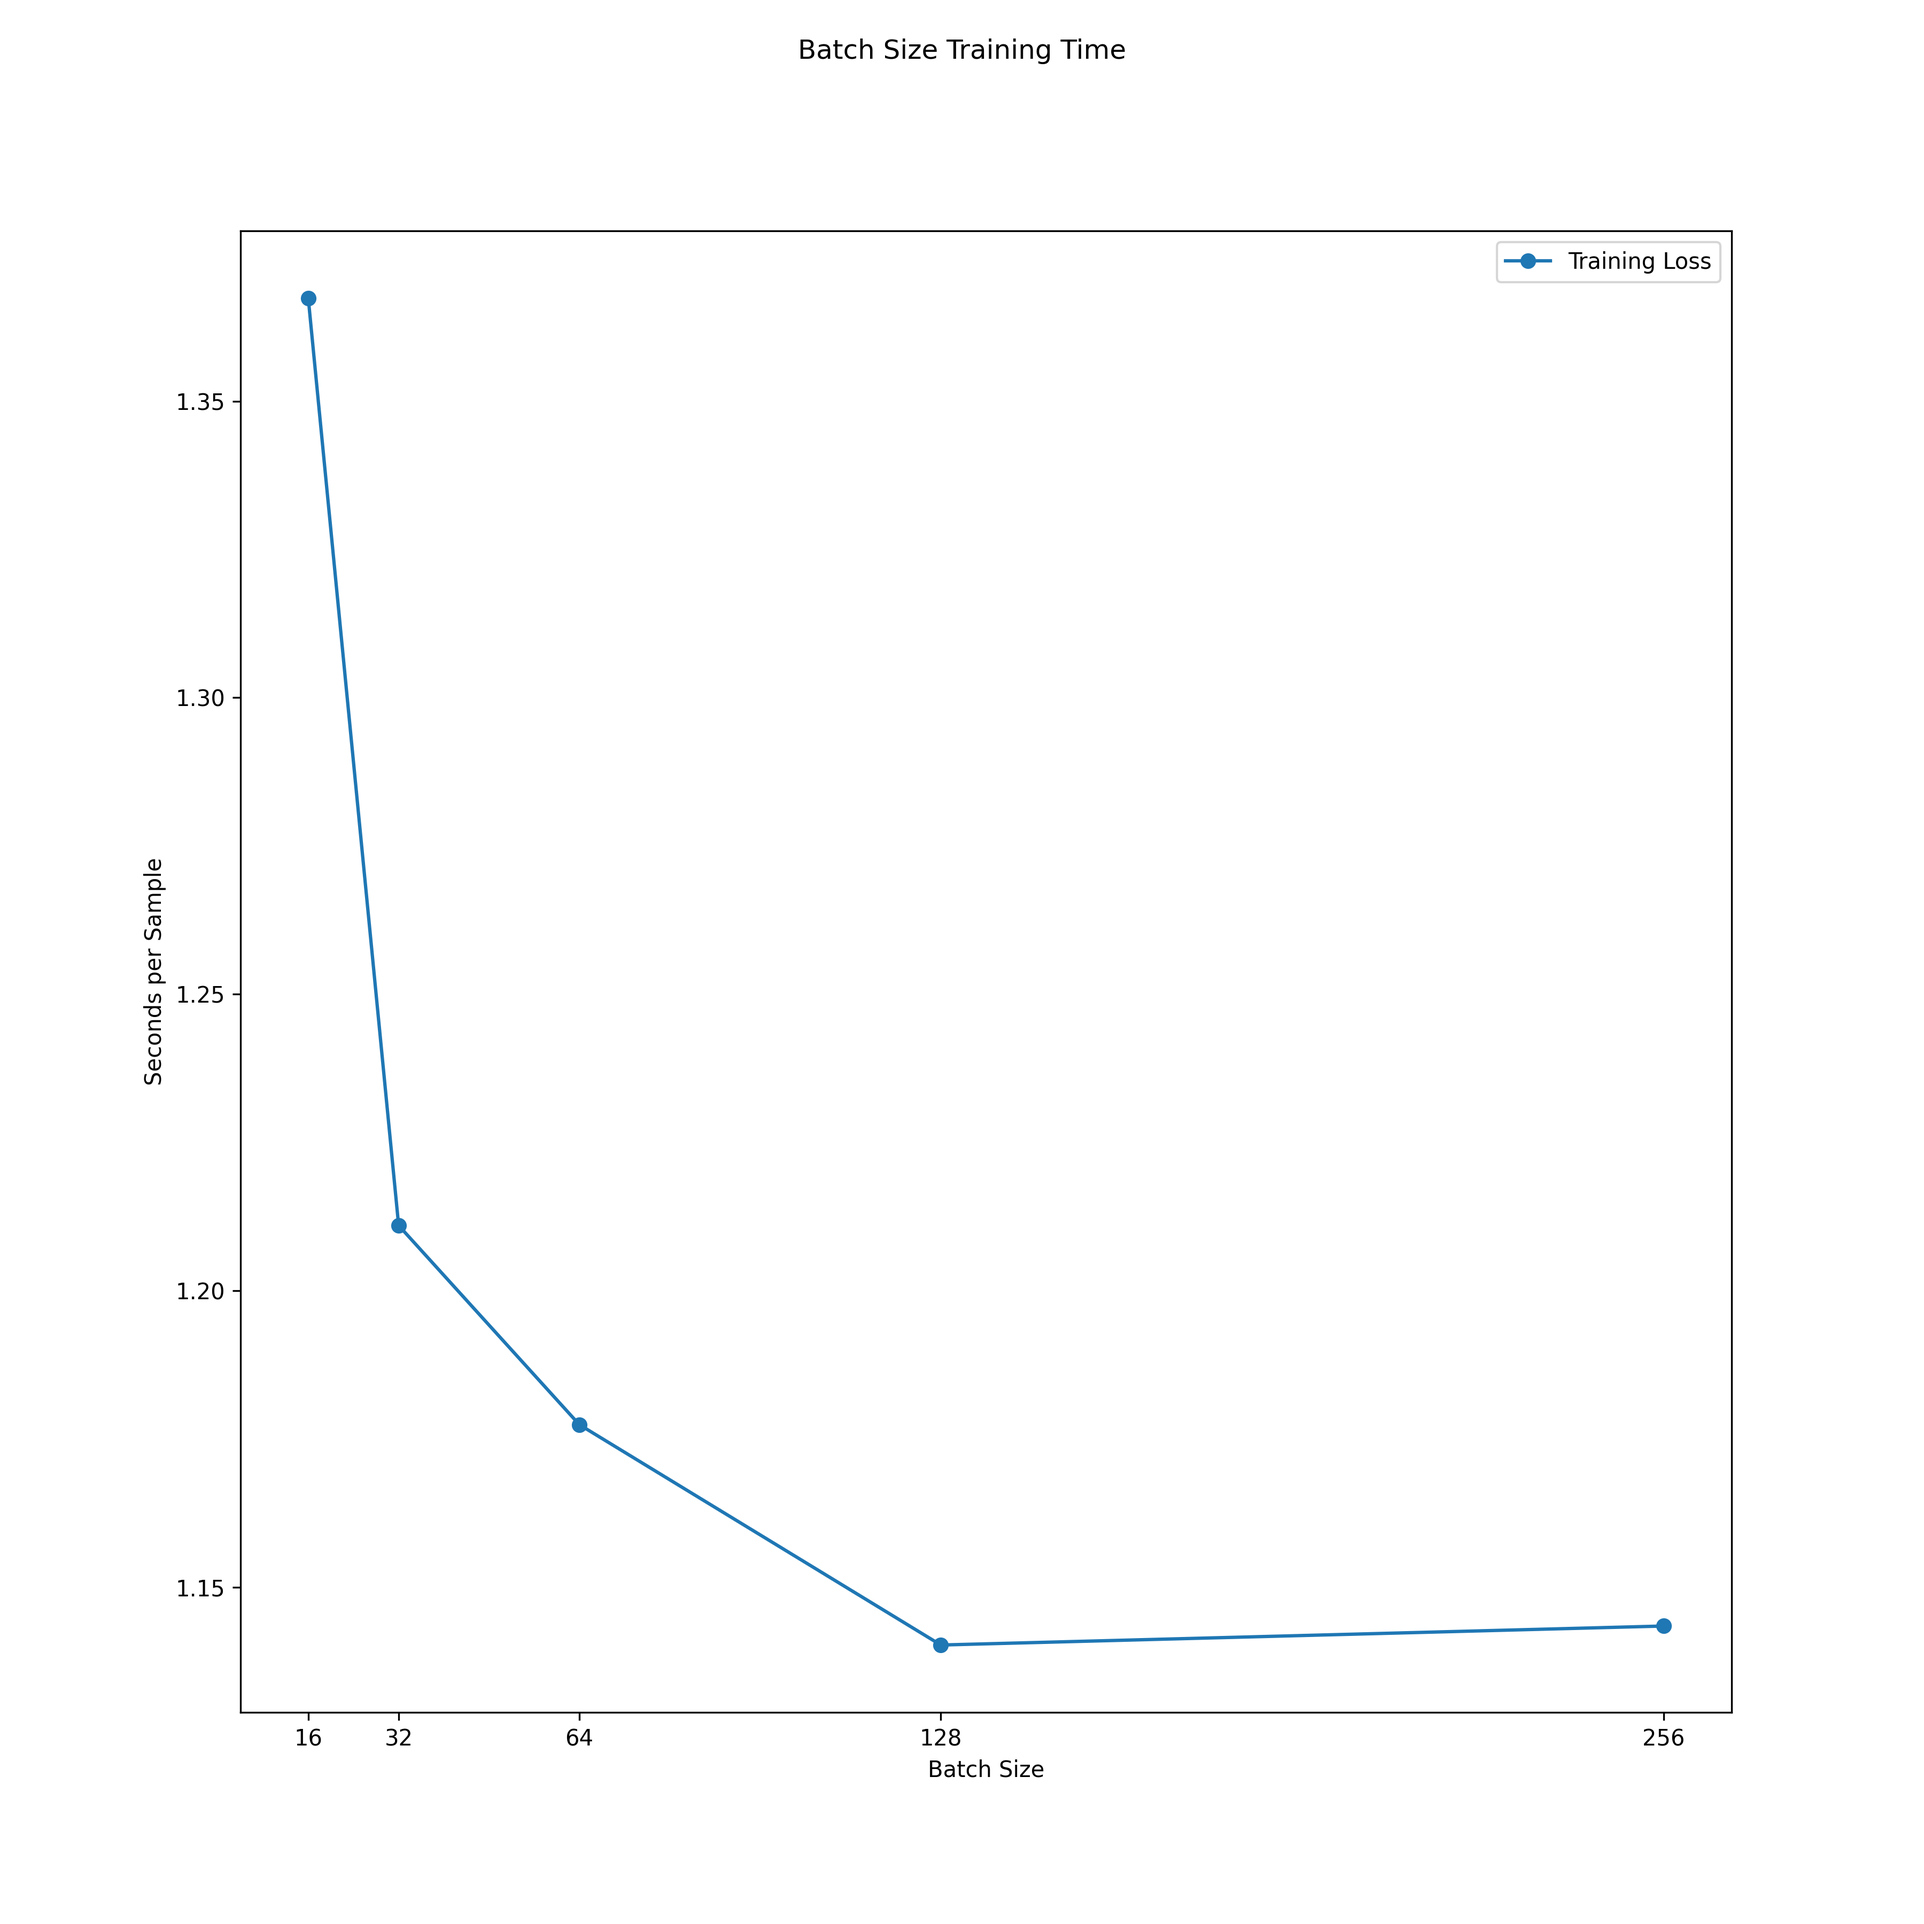
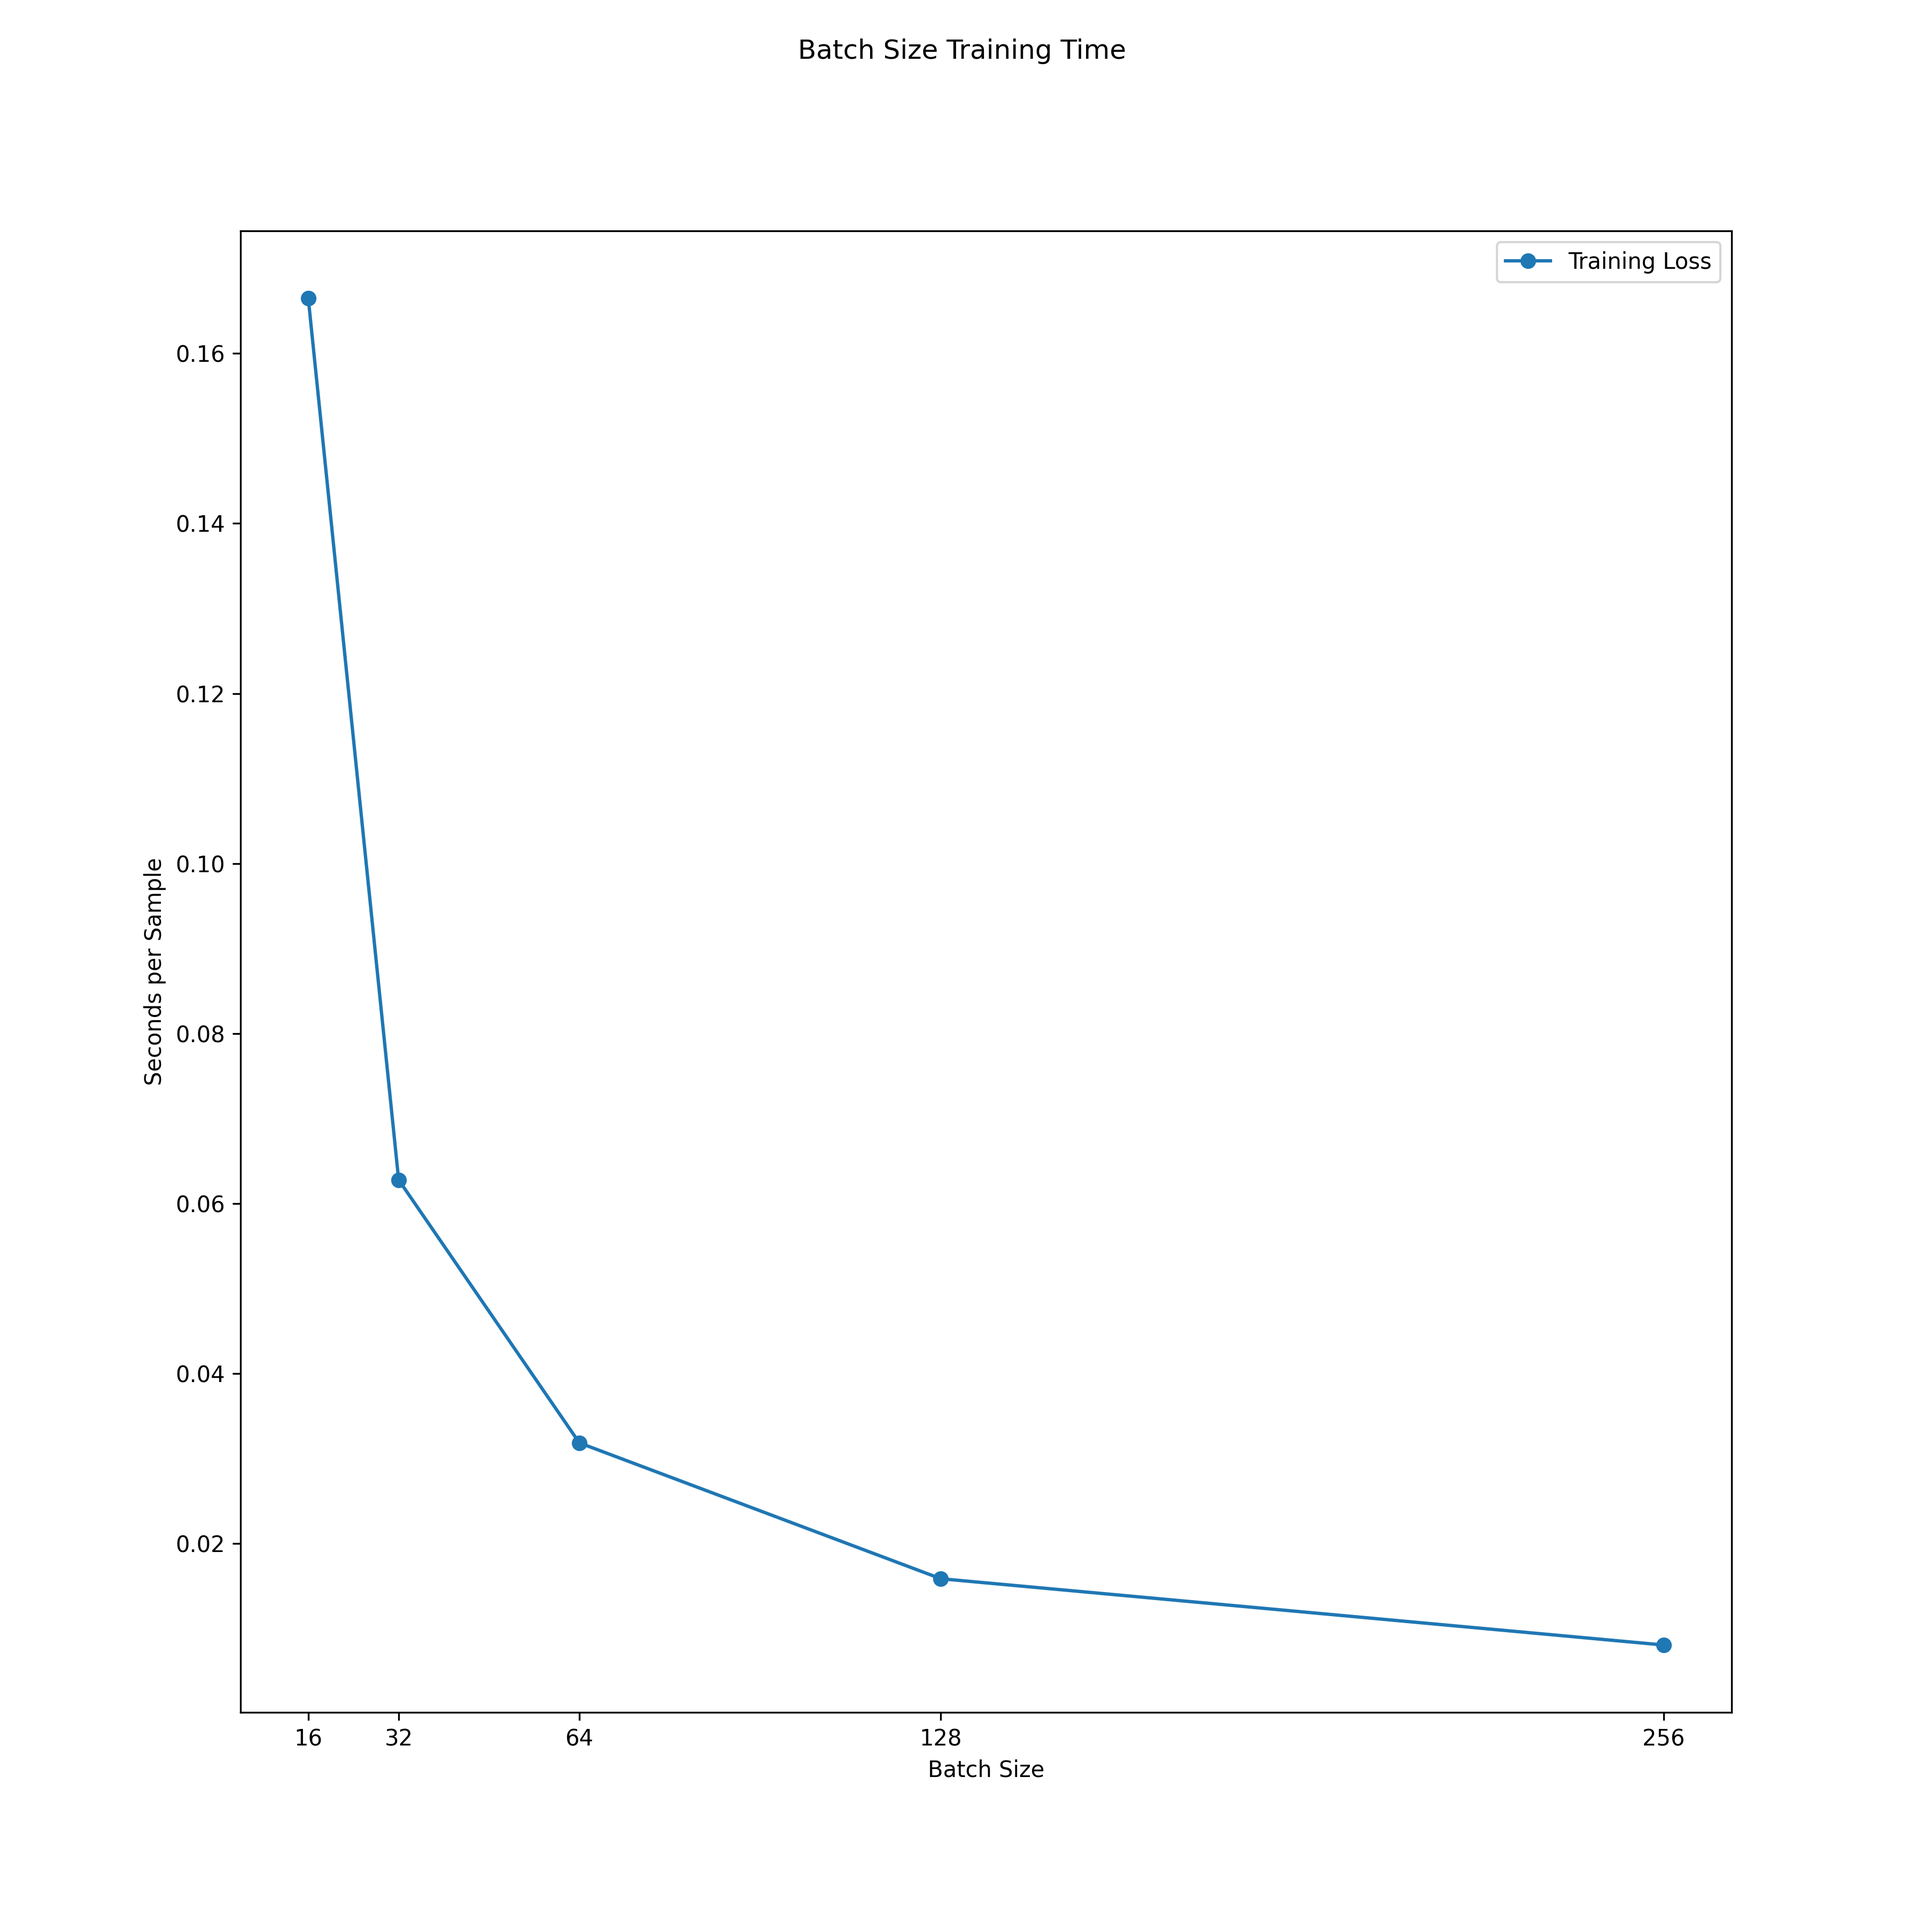
prelim results-- batch

diff --git a/RAG/encoder_training.py b/RAG/encoder_training.py
@@ -26,16 +26,16 @@ logging.set_verbosity_error()
 
 
 ### Parameters ###
-batch_size=128
+batch_size=256
 dual_encoder_temp=0.3
 learning_rate=1e-4
 epochs=50
-save_name= "_s2"
+save_name= "_v1"
 
 torch.backends.cudnn.benchmark = True
 
 ### Loading Dataset ###
-data_dir = "/work/mbouthil/datasets/msmarco_synq_2"
+data_dir = "/work/mbouthil/datasets/msmarco"
 corpus, queries, qrels = GenericDataLoader(data_folder=data_dir).load(split="train")
 device = "cuda" if torch.cuda.is_available() else "cpu"
 
@@ -220,7 +220,7 @@ optimizer = torch.optim.AdamW(model.parameters(), lr=learning_rate)
 scaler = GradScaler()
 train_loss = []
 
-print('\nTraining...\n')
+print(f'\n{save_name} training in progress...\n')
 for i in range(epochs):
 
     model.train()
